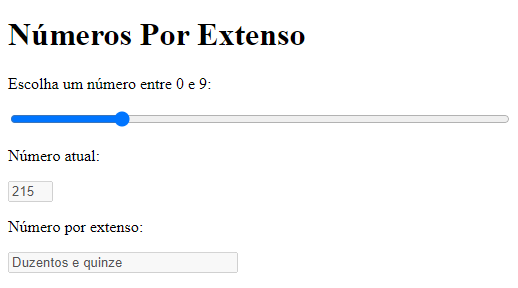
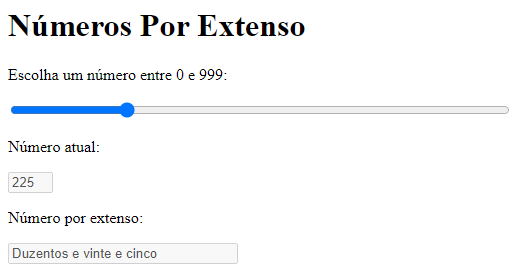
Adds screenshot and some style

diff --git a/index.html b/index.html
@@ -9,7 +9,7 @@
 <body>
     <div class="main">
         <h1>Números Por Extenso</h1>
-        <p>Escolha um número entre 0 e 9:</p>
+        <p>Escolha um número entre 0 e 999:</p>
         <input id="inputRange" type="range" min="0" max="999" value="0" step="1.0" />
         <p>Número atual:</p>
         <input id="currentNumber" type="text" disabled readonly />
